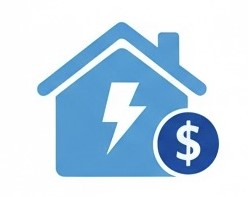
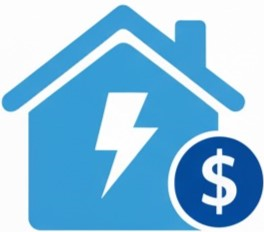
Use hero PNG for landing hero illustration

diff --git a/templates/landing.html b/templates/landing.html
@@ -20,27 +20,10 @@
           <a class="primary-cta" href="{{ url_for('index') }}">Start Calculator</a>
         </div>
         <div class="hero-visual" aria-hidden="true">
-          <svg viewBox="0 0 240 220" role="presentation" focusable="false" class="hero-illustration">
-            <defs>
-              <linearGradient id="houseGradient" x1="0%" y1="0%" x2="0%" y2="100%">
-                <stop offset="0%" stop-color="#1a7bff" stop-opacity="0.18" />
-                <stop offset="100%" stop-color="#1a7bff" stop-opacity="0.06" />
-              </linearGradient>
-            </defs>
-            <rect x="32" y="82" width="176" height="110" rx="12" fill="url(#houseGradient)" stroke="#1a7bff" stroke-width="6" />
-            <path d="M36 92 L120 34 L204 92" fill="none" stroke="#1a7bff" stroke-width="6" stroke-linecap="round" stroke-linejoin="round" />
-            <path
-              d="M120 78 l-28 52 h22 l-8 42 l42 -62 h-24 l8 -32 z"
-              fill="#1a7bff"
-              stroke="#0f62cf"
-              stroke-width="2"
-              stroke-linejoin="round"
-            />
-            <circle cx="182" cy="166" r="30" fill="#ffffff" stroke="#1a7bff" stroke-width="6" />
-            <text x="182" y="176" text-anchor="middle" font-family="'Poppins', sans-serif" font-size="26" font-weight="700" fill="#1a7bff">
-              $
-            </text>
-          </svg>
+            <img
+              src="{{ url_for('static', filename='img/wattwise-house-hero.png') }}"
+              alt="WattWise hero illustration"
+              class="hero-illustration" />
         </div>
       </section>
 
